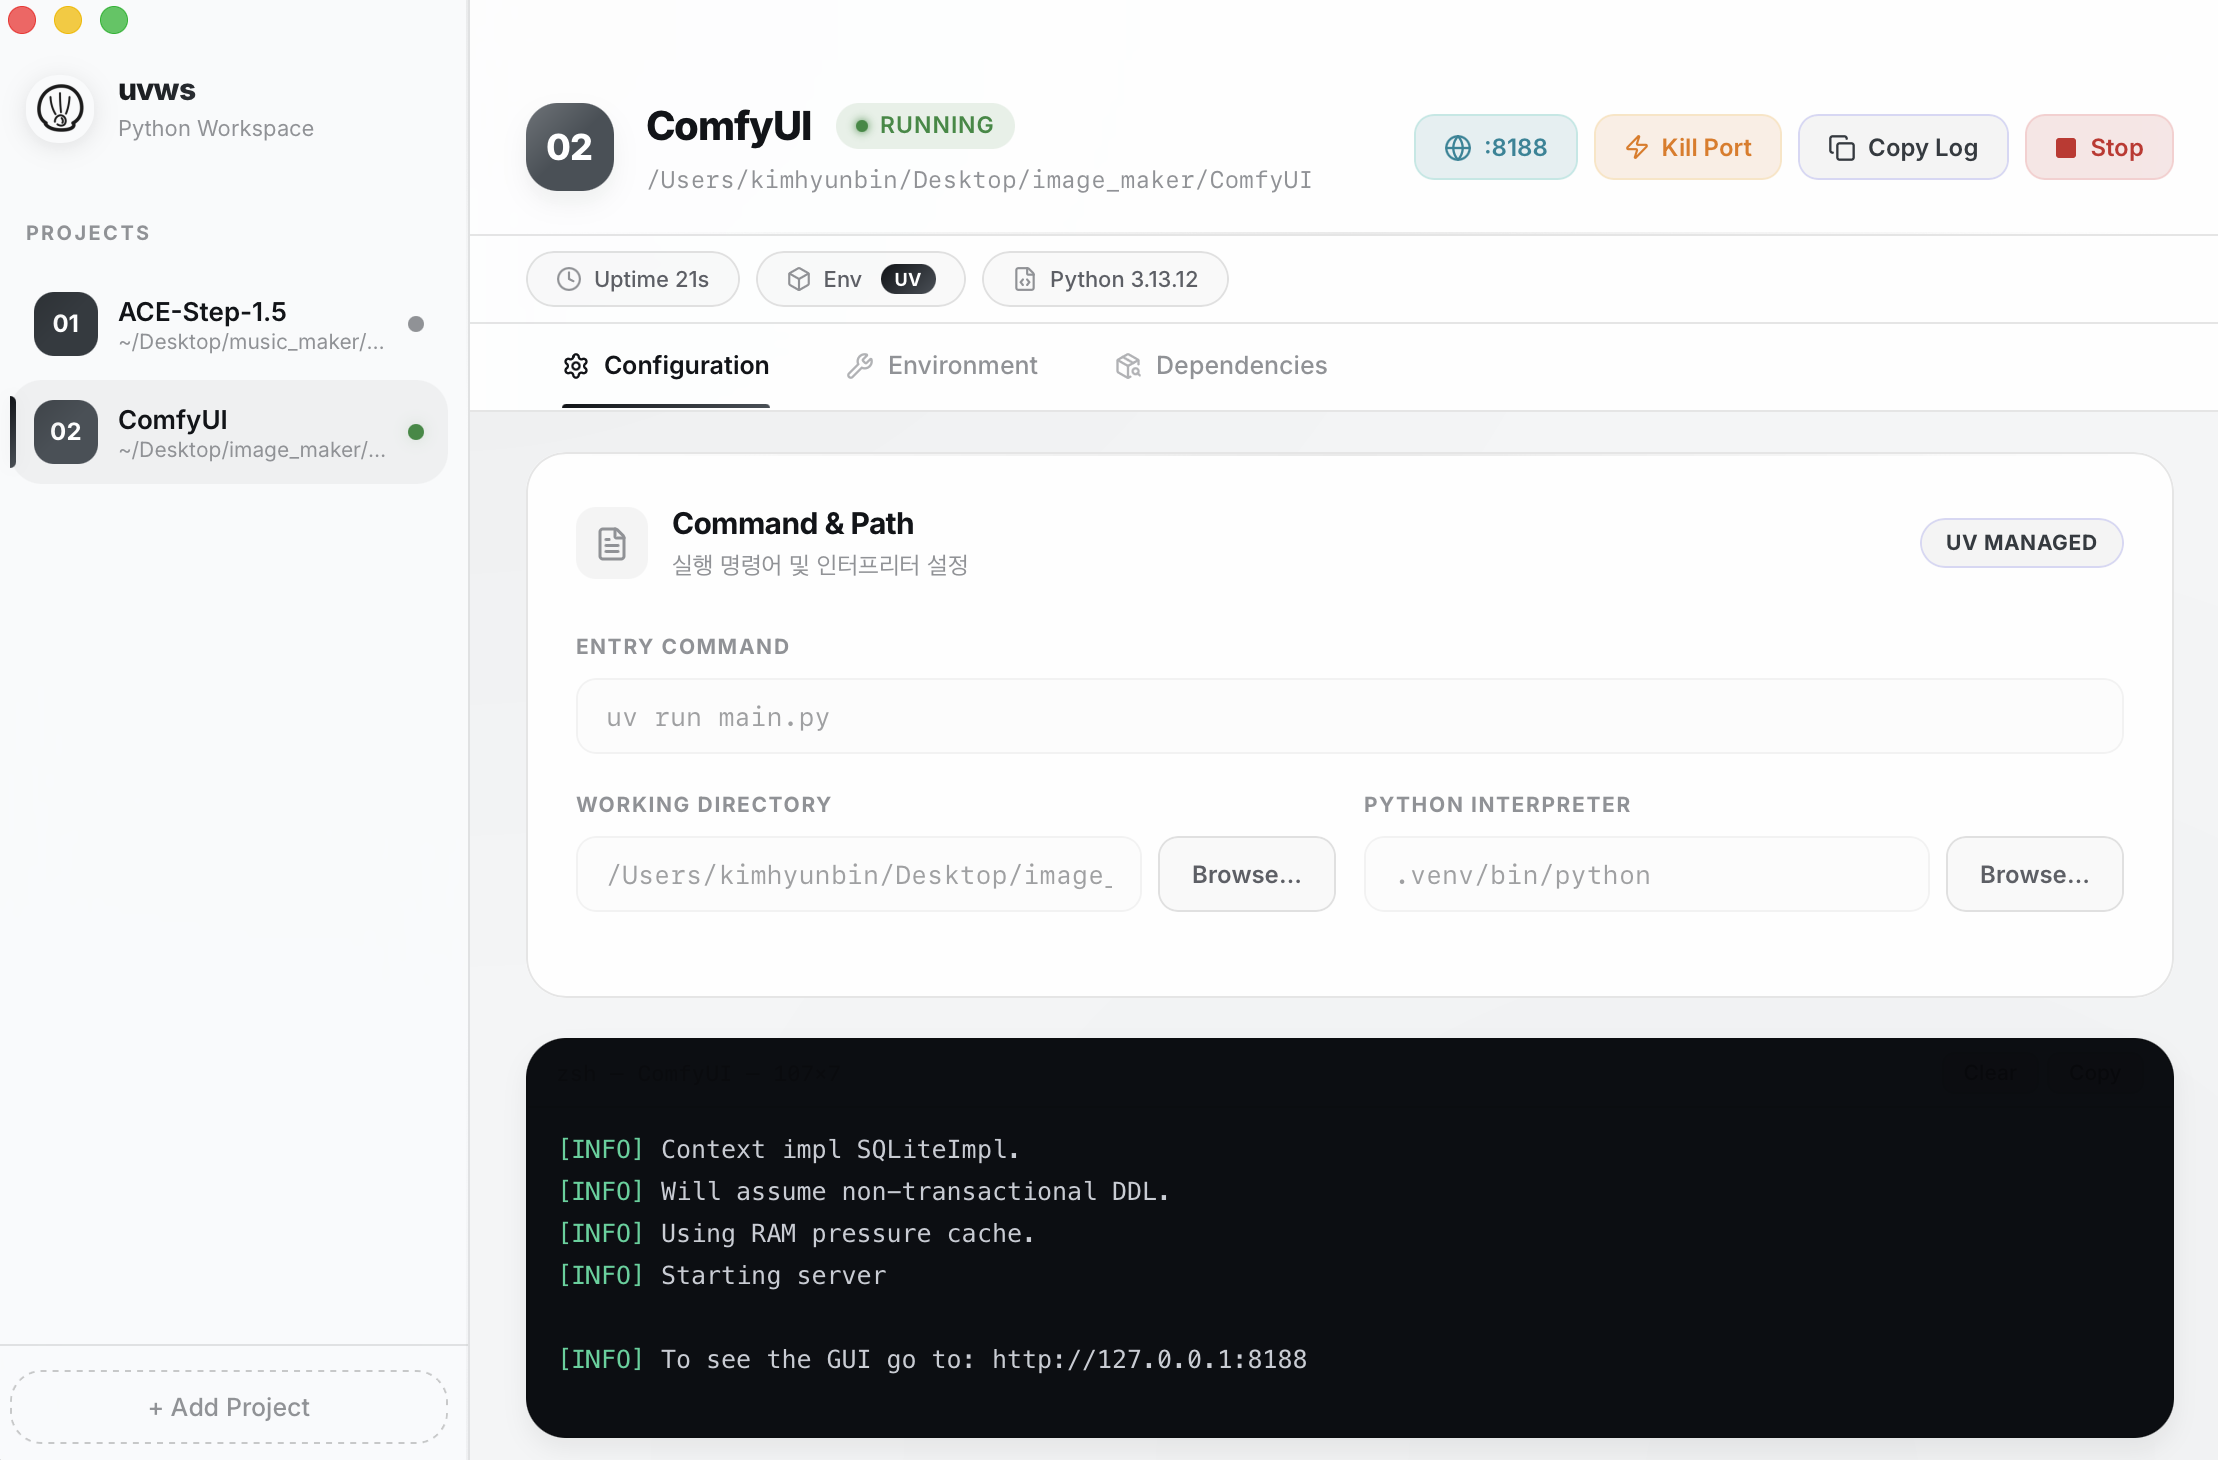
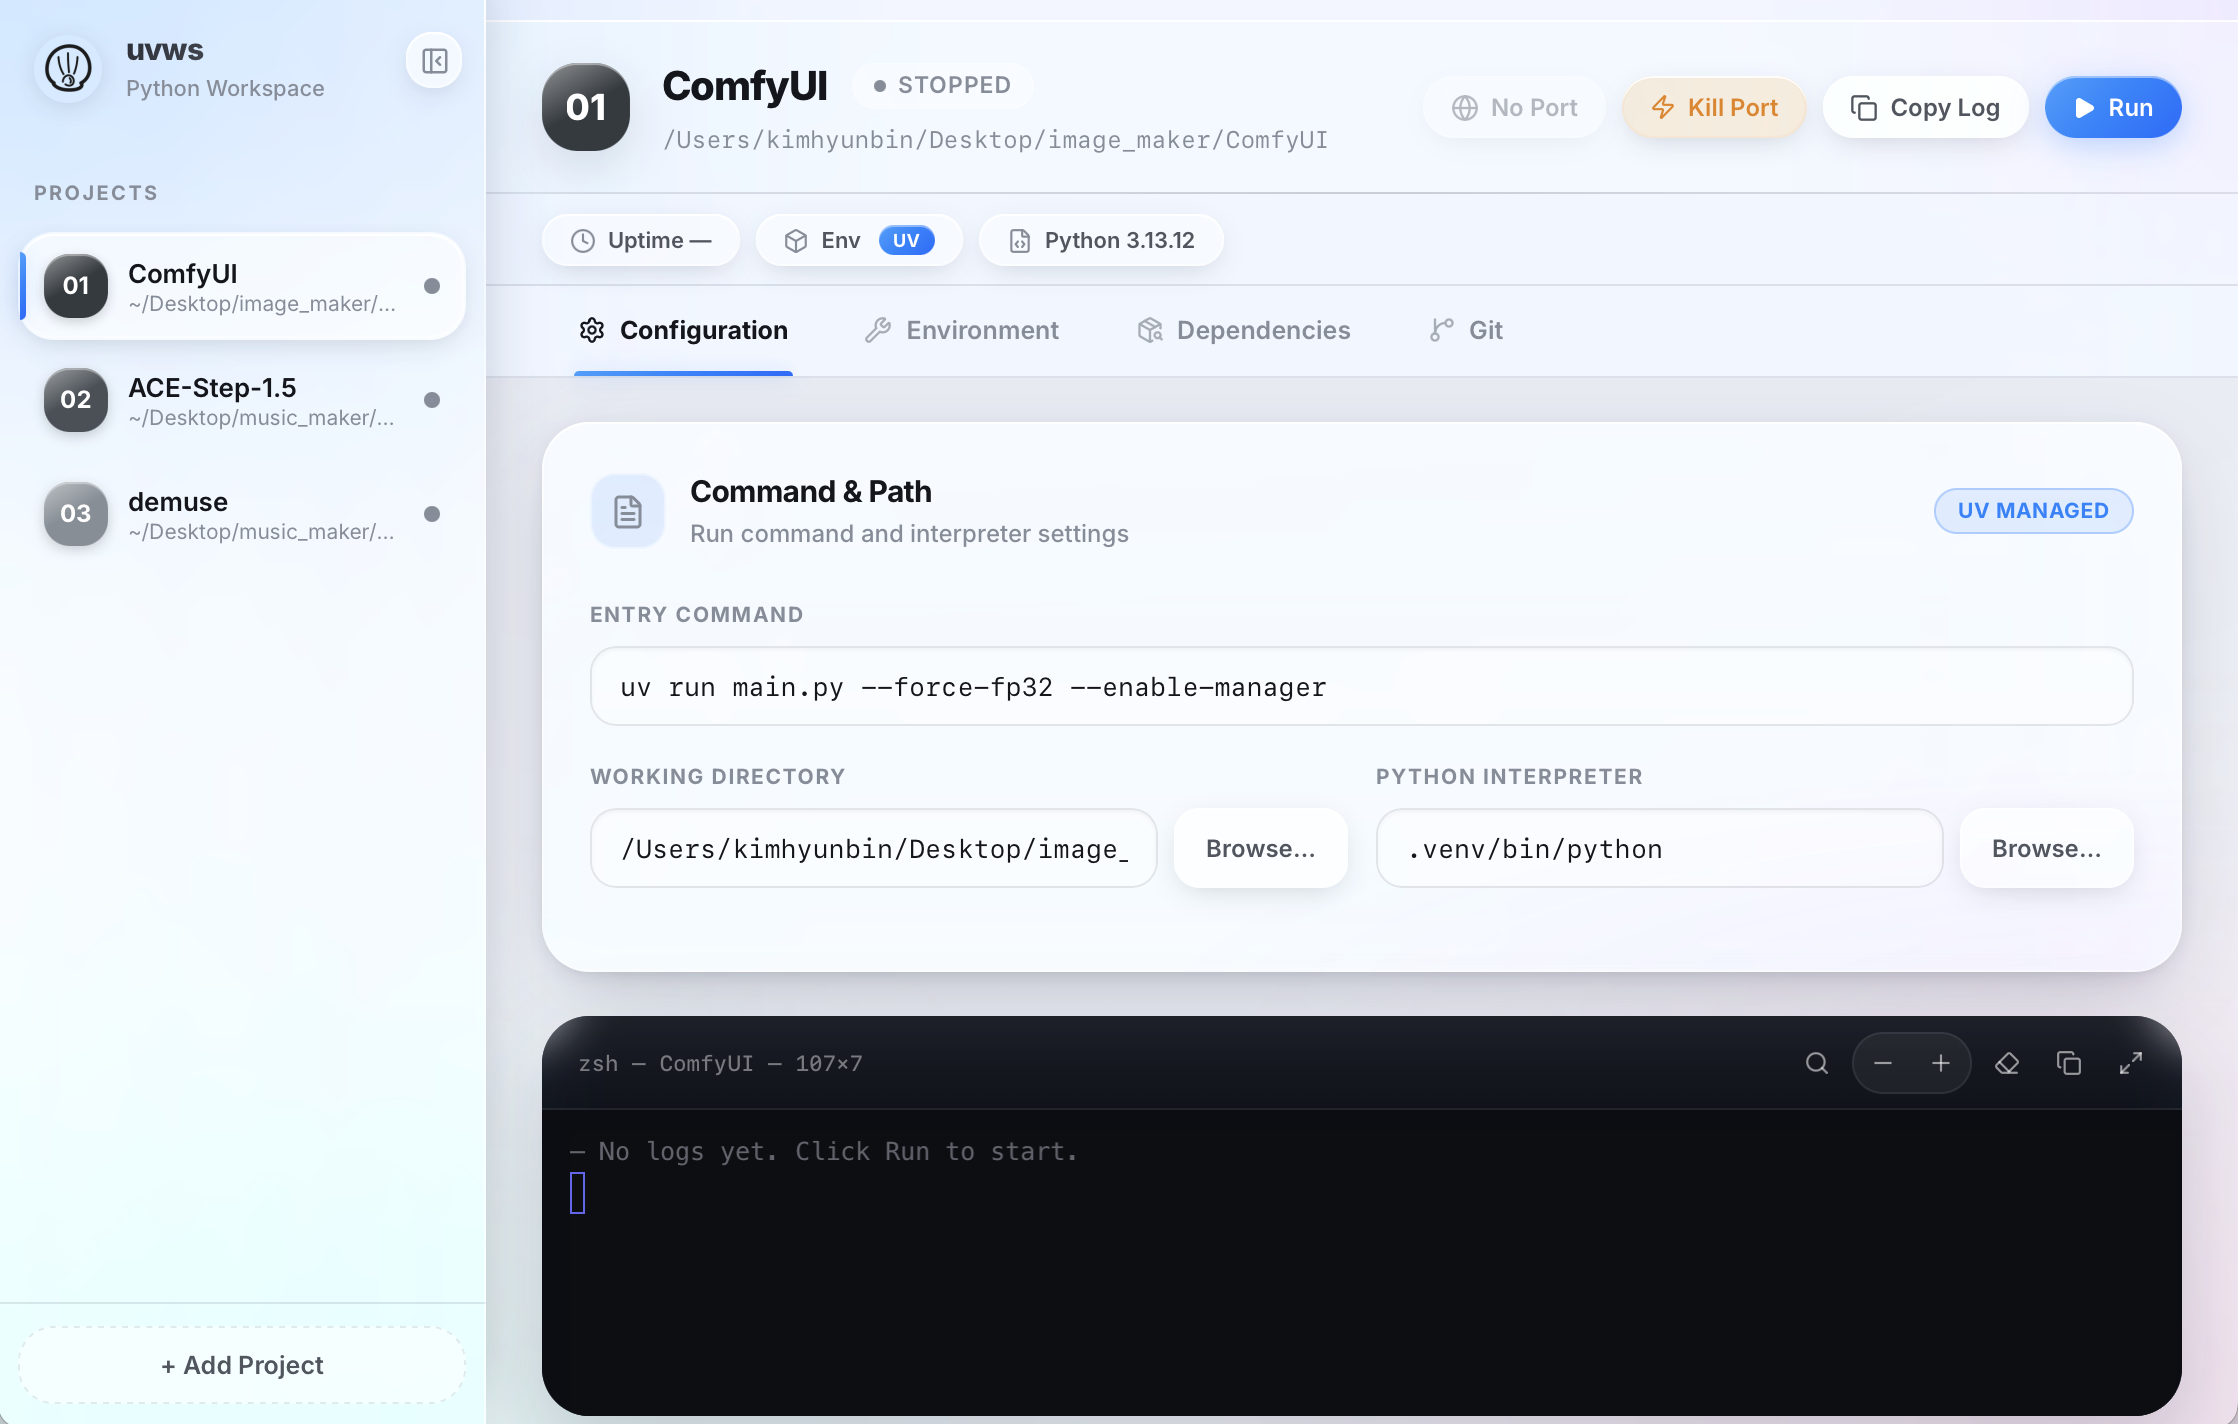
feat: add SEO optimization files and update landing page assets

diff --git a/landing/index.html b/landing/index.html
@@ -4,17 +4,29 @@
 <meta charset="UTF-8" />
 <meta name="viewport" content="width=device-width, initial-scale=1.0" />
 <meta name="color-scheme" content="light dark" />
-<title>uvws — uv 기반 파이썬 프로젝트를 클릭 한 번으로</title>
-<meta name="description" content="파이썬 프로젝트 여러 개를 데스크탑 앱에서 관리하고 클릭 한 번으로 실행하세요. uv 기반, 내장 터미널, 포트 강제 종료, Git 통합. macOS · Windows." />
+<title>uvws — 파이썬 프로젝트 관리 · uv 기반 원클릭 실행 데스크탑 앱</title>
+<meta name="description" content="cd·venv·python 반복 없이 파이썬 프로젝트를 클릭 한 번으로 실행하는 데스크탑 앱. uv 기반, 내장 터미널, 포트 강제 종료(kill port), 여러 프로젝트 동시 실행, Git 통합. ComfyUI·Flask·FastAPI·Streamlit 등 로컬 서버 실행에 딱. macOS · Windows · 무료 오픈소스." />
+<meta name="keywords" content="파이썬 프로젝트 관리, 파이썬 프로젝트 매니저, uv GUI, uv 런처, uv 사용법, astral uv, 파이썬 원클릭 실행, venv 자동화, 가상환경 관리, 포트 강제 종료, kill port, 포트 이미 사용중, 로컬 서버 관리, localhost 관리, ComfyUI 실행, Stable Diffusion 로컬 실행, 로컬 AI 앱 실행, Flask 실행, FastAPI 실행, Streamlit 실행, Django 실행, 파이썬 데스크탑 앱, 맥 파이썬 런처, 윈도우 파이썬 런처, 여러 파이썬 프로젝트 동시 실행, Tauri 앱, 파이썬 GUI 도구, python project manager, python launcher, uv gui launcher, run python one click, kill port mac, comfyui launcher, manage multiple python servers, venv manager" />
+<meta name="author" content="bunhine0452" />
+<meta name="robots" content="index, follow, max-image-preview:large" />
+<meta name="theme-color" content="#0a84ff" />
 <link rel="canonical" href="https://uvws.site/" />
-<meta property="og:title" content="uvws — uv 기반 파이썬 프로젝트를 클릭 한 번으로" />
-<meta property="og:description" content="cd 하고 venv 켜고 python 돌리던 거 끝. 폴더 등록해두면 클릭 한 번으로 실행됩니다." />
+<meta property="og:site_name" content="uvws" />
+<meta property="og:title" content="uvws — 파이썬 프로젝트를 클릭 한 번으로 실행하는 데스크탑 앱" />
+<meta property="og:description" content="cd 하고 venv 켜고 python 돌리던 거 끝. 폴더 등록해두면 클릭 한 번으로 실행됩니다. uv 기반 · 내장 터미널 · 포트 강제 종료 · 여러 프로젝트 동시 실행." />
 <meta property="og:url" content="https://uvws.site/" />
 <meta property="og:image" content="https://uvws.site/preview.png" />
+<meta property="og:image:alt" content="uvws 앱 스크린샷 — 파이썬 프로젝트 목록과 내장 터미널" />
 <meta property="og:type" content="website" />
+<meta property="og:locale" content="ko_KR" />
+<meta property="og:locale:alternate" content="en_US" />
 <meta name="twitter:card" content="summary_large_image" />
+<meta name="twitter:title" content="uvws — 파이썬 프로젝트를 클릭 한 번으로" />
+<meta name="twitter:description" content="uv 기반 파이썬 프로젝트 매니저. 내장 터미널 · 포트 강제 종료 · 여러 프로젝트 동시 실행. macOS · Windows 무료." />
 <meta name="twitter:image" content="https://uvws.site/preview.png" />
+<meta name="twitter:image:alt" content="uvws 앱 스크린샷" />
 <link rel="icon" href="icon.png" />
+<link rel="apple-touch-icon" href="icon.png" />
 <link rel="preconnect" href="https://fonts.googleapis.com" />
 <link rel="preconnect" href="https://fonts.gstatic.com" crossorigin />
 <link href="https://fonts.googleapis.com/css2?family=Inter:wght@400;500;600;700;800&display=swap" rel="stylesheet" />
@@ -281,10 +293,154 @@
   }
   .prereq .lbl { color: var(--muted); font-size: 12px; font-family: var(--mono); margin-top: 14px; display: block; }
 
+  /* use-cases */
+  .uses { display: flex; flex-wrap: wrap; gap: 10px; margin-top: 32px; }
+  .uses span {
+    font-family: var(--mono); font-size: 13px; color: var(--text-soft);
+    background: var(--glass-fill); -webkit-backdrop-filter: var(--blur); backdrop-filter: var(--blur);
+    padding: 8px 14px; border-radius: var(--r-full); box-shadow: var(--elev-sm);
+  }
+
+  /* faq */
+  .faq-list { margin-top: 40px; display: flex; flex-direction: column; gap: 12px; }
+  .faq-list details {
+    background: var(--glass-fill); -webkit-backdrop-filter: var(--blur); backdrop-filter: var(--blur);
+    border-radius: var(--r-md); box-shadow: var(--elev-sm); overflow: hidden;
+    transition: box-shadow .15s;
+  }
+  .faq-list details[open] { box-shadow: var(--elev); }
+  .faq-list summary {
+    cursor: pointer; list-style: none; padding: 19px 22px; font-weight: 700; font-size: 15.5px;
+    display: flex; align-items: center; justify-content: space-between; gap: 14px; letter-spacing: -0.01em;
+  }
+  .faq-list summary::-webkit-details-marker { display: none; }
+  .faq-list summary::after { content: "+"; font-family: var(--mono); font-size: 20px; color: var(--accent); transition: transform .2s; flex: none; }
+  .faq-list details[open] summary::after { transform: rotate(45deg); }
+  .faq-list .faq-a { padding: 0 22px 20px; color: var(--text-soft); font-size: 14.5px; }
+  .faq-list .faq-a code { font-family: var(--mono); font-size: 12.5px; color: var(--accent); background: var(--accent-soft); padding: 1px 6px; border-radius: 6px; }
+
   footer { box-shadow: inset 0 1px 0 var(--hairline); padding: 40px 0; color: var(--muted); font-size: 14px; margin-top: 40px; }
   footer .wrap { display: flex; justify-content: space-between; flex-wrap: wrap; gap: 14px; }
   footer a:hover { color: var(--text); }
 </style>
+
+<script type="application/ld+json">
+{
+  "@context": "https://schema.org",
+  "@graph": [
+    {
+      "@type": "WebSite",
+      "@id": "https://uvws.site/#website",
+      "url": "https://uvws.site/",
+      "name": "uvws",
+      "description": "파이썬 프로젝트를 클릭 한 번으로 실행하는 uv 기반 데스크탑 앱",
+      "inLanguage": ["ko-KR", "en-US"],
+      "publisher": { "@id": "https://uvws.site/#person" }
+    },
+    {
+      "@type": "Person",
+      "@id": "https://uvws.site/#person",
+      "name": "bunhine0452",
+      "url": "https://github.com/bunhine0452"
+    },
+    {
+      "@type": "SoftwareApplication",
+      "@id": "https://uvws.site/#app",
+      "name": "uvws",
+      "alternateName": ["uvws app", "uv workspace", "파이썬 프로젝트 매니저"],
+      "url": "https://uvws.site/",
+      "description": "cd·venv·python 반복 없이 파이썬 프로젝트를 클릭 한 번으로 실행하는 데스크탑 앱. uv 기반, 내장 터미널, 포트 강제 종료(kill port), 여러 프로젝트 동시 실행, Git 통합. ComfyUI·Flask·FastAPI·Streamlit 같은 로컬 서버 실행에 적합합니다.",
+      "applicationCategory": "DeveloperApplication",
+      "applicationSubCategory": "Python project manager / launcher",
+      "operatingSystem": "macOS, Windows",
+      "softwareVersion": "0.3.1",
+      "downloadUrl": "https://github.com/bunhine0452/uvws/releases/latest",
+      "softwareHelp": "https://github.com/bunhine0452/uvws",
+      "license": "https://github.com/bunhine0452/uvws/blob/main/LICENSE",
+      "isAccessibleForFree": true,
+      "screenshot": "https://uvws.site/preview.png",
+      "image": "https://uvws.site/icon.png",
+      "keywords": "파이썬 프로젝트 관리, uv GUI 런처, venv 자동화, 포트 강제 종료, kill port, ComfyUI 실행, 로컬 서버 관리, python project manager, uv launcher",
+      "featureList": [
+        "원클릭 파이썬 프로젝트 실행 (uv run 자동 래핑)",
+        "프로젝트별 내장 터미널 / 실시간 로그 스트리밍",
+        "포트 강제 종료 (kill port) — 포트가 실제로 비워질 때까지 확인",
+        "requirements.txt · pyproject.toml 임포트 위저드 (Python 3.10–3.13)",
+        "여러 프로젝트 동시 실행 및 종료 시 자동 정리",
+        "Git 통합 — 브랜치 / ahead·behind / Fetch·Pull·Push"
+      ],
+      "author": { "@id": "https://uvws.site/#person" },
+      "offers": {
+        "@type": "Offer",
+        "price": "0",
+        "priceCurrency": "USD"
+      }
+    },
+    {
+      "@type": "FAQPage",
+      "@id": "https://uvws.site/#faq",
+      "mainEntity": [
+        {
+          "@type": "Question",
+          "name": "uvws는 어떤 앱인가요?",
+          "acceptedAnswer": {
+            "@type": "Answer",
+            "text": "uvws는 로컬 파이썬 프로젝트 여러 개를 데스크탑 앱 하나에서 관리하고 클릭 한 번으로 실행하는 파이썬 프로젝트 매니저입니다. 내부적으로 Astral의 uv(uv run)로 감싸 실행하며, 내장 터미널, 포트 강제 종료, 여러 프로젝트 동시 실행, Git 통합을 제공합니다. macOS와 Windows를 지원하는 무료 오픈소스입니다."
+          }
+        },
+        {
+          "@type": "Question",
+          "name": "uv가 무엇인가요? 꼭 설치해야 하나요?",
+          "acceptedAnswer": {
+            "@type": "Answer",
+            "text": "uv는 Astral이 만든 매우 빠른 파이썬 패키지·가상환경 관리 도구입니다. uvws는 uv를 백엔드로 사용하므로 먼저 uv를 설치해야 합니다. macOS·Linux는 'curl -LsSf https://astral.sh/uv/install.sh | sh', Windows는 PowerShell에서 'irm https://astral.sh/uv/install.ps1 | iex' 로 설치합니다."
+          }
+        },
+        {
+          "@type": "Question",
+          "name": "ComfyUI, Stable Diffusion 같은 로컬 AI 앱도 실행할 수 있나요?",
+          "acceptedAnswer": {
+            "@type": "Answer",
+            "text": "네. ComfyUI, Stable Diffusion WebUI 등 파이썬으로 실행되는 로컬 AI 앱을 폴더로 등록해두면 클릭 한 번으로 띄울 수 있습니다. 로그에 localhost 주소가 뜨면 '브라우저 열기' 버튼이 자동으로 나타나고, 포트가 막혀 있으면 Kill Port 버튼으로 비울 수 있습니다."
+          }
+        },
+        {
+          "@type": "Question",
+          "name": "Flask · FastAPI · Django · Streamlit 같은 웹 프레임워크도 되나요?",
+          "acceptedAnswer": {
+            "@type": "Answer",
+            "text": "됩니다. Flask, FastAPI, Django, Streamlit, Gradio 등 로컬 개발 서버를 띄우는 모든 파이썬 프로젝트에 사용할 수 있습니다. 각 프로젝트는 독립된 터미널과 포트로 동시에 실행·관리됩니다."
+          }
+        },
+        {
+          "@type": "Question",
+          "name": "'포트가 이미 사용 중'일 때 어떻게 하나요?",
+          "acceptedAnswer": {
+            "@type": "Answer",
+            "text": "Kill Port(포트 강제 종료) 버튼을 누르면 해당 포트를 잡고 있는 프로세스를 SIGKILL로 종료하고 포트가 실제로 비워질 때까지 확인합니다. lsof나 kill -9 명령을 직접 칠 필요가 없습니다."
+          }
+        },
+        {
+          "@type": "Question",
+          "name": "venv(가상환경)를 직접 만들어야 하나요?",
+          "acceptedAnswer": {
+            "@type": "Answer",
+            "text": "아니요. uvws가 uv run으로 감싸 실행하므로 venv 활성화 없이 동작하고, 가상환경이 없으면 첫 실행 때 자동으로 만들어 줍니다. requirements.txt나 pyproject.toml이 있으면 임포트 위저드에서 Python 버전(3.10–3.13)을 고르고 의존성까지 한 번에 설치합니다."
+          }
+        },
+        {
+          "@type": "Question",
+          "name": "무료인가요? 어떤 OS를 지원하나요?",
+          "acceptedAnswer": {
+            "@type": "Answer",
+            "text": "무료 오픈소스(MIT)입니다. macOS(Apple Silicon·Intel)와 Windows 10 이상을 지원하며, uvws.site에서 OS에 맞는 설치 파일을 바로 내려받을 수 있습니다."
+          }
+        }
+      ]
+    }
+  ]
+}
+</script>
 </head>
 <body>
 
@@ -293,6 +449,7 @@
     <a class="brand" href="#top"><img src="icon.png" alt="uvws" /> uvws</a>
     <div class="nav-links">
       <a class="hide-sm" href="#features" data-i18n="nav_features">기능</a>
+      <a class="hide-sm" href="#faq" data-i18n="nav_faq">FAQ</a>
       <a class="hide-sm" href="https://github.com/bunhine0452/uvws" target="_blank" rel="noopener">GitHub</a>
       <span class="lang-toggle">
         <button id="lang-ko" onclick="setLang('ko')">한국어</button>
@@ -418,6 +575,61 @@
   </div>
 </section>
 
+<section id="usecases" class="wrap">
+  <span class="eyebrow">USE CASES</span>
+  <h2 data-i18n="uc_title">이런 작업에 잘 맞아요</h2>
+  <p class="section-sub" data-i18n="uc_sub">로컬에서 파이썬 서버를 자주 띄우는 분이라면 거의 다 해당됩니다.</p>
+  <div class="uses">
+    <span data-i18n="uc_1">ComfyUI 실행</span>
+    <span data-i18n="uc_2">Stable Diffusion WebUI</span>
+    <span data-i18n="uc_3">Flask · FastAPI 개발 서버</span>
+    <span data-i18n="uc_4">Streamlit · Gradio 데모</span>
+    <span data-i18n="uc_5">Django 로컬 실행</span>
+    <span data-i18n="uc_6">Jupyter · 데이터 분석 스크립트</span>
+    <span data-i18n="uc_7">디스코드 봇 · 크롤러</span>
+    <span data-i18n="uc_8">여러 파이썬 프로젝트 동시 실행</span>
+    <span data-i18n="uc_9">포트 강제 종료 (kill port)</span>
+    <span data-i18n="uc_10">uv 가상환경 자동 관리</span>
+  </div>
+</section>
+
+<section id="faq" class="wrap">
+  <span class="eyebrow">FAQ</span>
+  <h2 data-i18n="faq_title">자주 묻는 질문</h2>
+  <p class="section-sub" data-i18n="faq_sub">uvws가 무엇이고 어떤 파이썬 작업에 쓰는지 빠르게 정리했습니다.</p>
+
+  <div class="faq-list">
+    <details open>
+      <summary data-i18n="faq_q1">uvws는 어떤 앱인가요?</summary>
+      <div class="faq-a" data-i18n="faq_a1">로컬 파이썬 프로젝트 여러 개를 데스크탑 앱 하나에서 관리하고 클릭 한 번으로 실행하는 <strong>파이썬 프로젝트 매니저</strong>입니다. 내부적으로 Astral의 <code>uv run</code>으로 감싸 실행하며, 내장 터미널·포트 강제 종료·여러 프로젝트 동시 실행·Git 통합을 제공합니다. macOS와 Windows를 지원하는 무료 오픈소스예요.</div>
+    </details>
+    <details>
+      <summary data-i18n="faq_q2">uv가 무엇인가요? 꼭 설치해야 하나요?</summary>
+      <div class="faq-a" data-i18n="faq_a2">uv는 Astral이 만든 아주 빠른 파이썬 패키지·가상환경 관리 도구입니다. uvws는 uv를 백엔드로 쓰기 때문에 먼저 uv를 설치해야 합니다. macOS·Linux는 <code>curl -LsSf https://astral.sh/uv/install.sh | sh</code>, Windows는 PowerShell에서 <code>irm https://astral.sh/uv/install.ps1 | iex</code> 로 설치하세요.</div>
+    </details>
+    <details>
+      <summary data-i18n="faq_q3">ComfyUI, Stable Diffusion 같은 로컬 AI 앱도 실행되나요?</summary>
+      <div class="faq-a" data-i18n="faq_a3">네. ComfyUI, Stable Diffusion WebUI 등 파이썬으로 도는 로컬 AI 앱을 폴더로 등록해두면 클릭 한 번으로 띄울 수 있습니다. 로그에 <code>localhost</code> 주소가 뜨면 '브라우저 열기' 버튼이 자동으로 나타나고, 포트가 막혀 있으면 Kill Port 버튼으로 비웁니다.</div>
+    </details>
+    <details>
+      <summary data-i18n="faq_q4">Flask · FastAPI · Django · Streamlit도 되나요?</summary>
+      <div class="faq-a" data-i18n="faq_a4">됩니다. Flask, FastAPI, Django, Streamlit, Gradio 등 로컬 개발 서버를 띄우는 모든 파이썬 프로젝트에 쓸 수 있어요. 각 프로젝트는 독립된 터미널·포트로 동시에 실행·관리됩니다.</div>
+    </details>
+    <details>
+      <summary data-i18n="faq_q5">'포트가 이미 사용 중'일 때 어떻게 하나요?</summary>
+      <div class="faq-a" data-i18n="faq_a5">Kill Port(포트 강제 종료) 버튼을 누르면 그 포트를 잡고 있는 프로세스를 SIGKILL로 종료하고, 포트가 실제로 비워질 때까지 확인합니다. <code>lsof</code>나 <code>kill -9</code>를 직접 칠 필요가 없어요.</div>
+    </details>
+    <details>
+      <summary data-i18n="faq_q6">venv(가상환경)를 직접 만들어야 하나요?</summary>
+      <div class="faq-a" data-i18n="faq_a6">아니요. uvws가 <code>uv run</code>으로 감싸 실행하므로 venv 활성화 없이 동작하고, 가상환경이 없으면 첫 실행 때 자동으로 만들어 줍니다. requirements.txt나 pyproject.toml이 있으면 임포트 위저드에서 Python 버전(3.10–3.13)을 고르고 의존성까지 한 번에 설치합니다.</div>
+    </details>
+    <details>
+      <summary data-i18n="faq_q7">무료인가요? 어떤 OS를 지원하나요?</summary>
+      <div class="faq-a" data-i18n="faq_a7">무료 오픈소스(MIT)입니다. macOS(Apple Silicon·Intel)와 Windows 10 이상을 지원하고, 위 다운로드 버튼에서 OS에 맞는 설치 파일을 바로 받을 수 있어요.</div>
+    </details>
+  </div>
+</section>
+
 <footer>
   <div class="wrap">
     <span data-i18n="footer_left">uvws · MIT License · 개인 사이드 프로젝트입니다</span>
@@ -432,7 +644,7 @@
   // ── Minimal i18n: swap [data-i18n] innerHTML on language change ──
   const I18N = {
     ko: {
-      nav_features: "기능", nav_download: "다운로드",
+      nav_features: "기능", nav_faq: "FAQ", nav_download: "다운로드",
       hero_pill: "uv 기반 · Tauri 2 · 오픈소스",
       hero_title: '파이썬 프로젝트를<br /><span class="accent">클릭 한 번으로</span> 실행',
       hero_sub: "cd 하고 venv 켜고 python 돌리던 거, 이제 폴더 한 번 등록해두면 끝. 여러 프로젝트를 데스크탑 앱 하나에서 관리하고 실행하세요.",
@@ -456,11 +668,33 @@
       dl_notes: "업데이트 내용 보기", dl_go: "바로 다운로드 →",
       prereq_title: "⚠️ 먼저 uv가 설치돼 있어야 합니다",
       prereq_gatekeeper: "macOS 첫 실행 시 보안 경고가 뜨면 (공증 전이라)",
+      uc_title: "이런 작업에 잘 맞아요",
+      uc_sub: "로컬에서 파이썬 서버를 자주 띄우는 분이라면 거의 다 해당됩니다.",
+      uc_1: "ComfyUI 실행", uc_2: "Stable Diffusion WebUI", uc_3: "Flask · FastAPI 개발 서버",
+      uc_4: "Streamlit · Gradio 데모", uc_5: "Django 로컬 실행", uc_6: "Jupyter · 데이터 분석 스크립트",
+      uc_7: "디스코드 봇 · 크롤러", uc_8: "여러 파이썬 프로젝트 동시 실행", uc_9: "포트 강제 종료 (kill port)",
+      uc_10: "uv 가상환경 자동 관리",
+      faq_title: "자주 묻는 질문",
+      faq_sub: "uvws가 무엇이고 어떤 파이썬 작업에 쓰는지 빠르게 정리했습니다.",
+      faq_q1: "uvws는 어떤 앱인가요?",
+      faq_a1: '로컬 파이썬 프로젝트 여러 개를 데스크탑 앱 하나에서 관리하고 클릭 한 번으로 실행하는 <strong>파이썬 프로젝트 매니저</strong>입니다. 내부적으로 Astral의 <code>uv run</code>으로 감싸 실행하며, 내장 터미널·포트 강제 종료·여러 프로젝트 동시 실행·Git 통합을 제공합니다. macOS와 Windows를 지원하는 무료 오픈소스예요.',
+      faq_q2: "uv가 무엇인가요? 꼭 설치해야 하나요?",
+      faq_a2: 'uv는 Astral이 만든 아주 빠른 파이썬 패키지·가상환경 관리 도구입니다. uvws는 uv를 백엔드로 쓰기 때문에 먼저 uv를 설치해야 합니다. macOS·Linux는 <code>curl -LsSf https://astral.sh/uv/install.sh | sh</code>, Windows는 PowerShell에서 <code>irm https://astral.sh/uv/install.ps1 | iex</code> 로 설치하세요.',
+      faq_q3: "ComfyUI, Stable Diffusion 같은 로컬 AI 앱도 실행되나요?",
+      faq_a3: '네. ComfyUI, Stable Diffusion WebUI 등 파이썬으로 도는 로컬 AI 앱을 폴더로 등록해두면 클릭 한 번으로 띄울 수 있습니다. 로그에 <code>localhost</code> 주소가 뜨면 \'브라우저 열기\' 버튼이 자동으로 나타나고, 포트가 막혀 있으면 Kill Port 버튼으로 비웁니다.',
+      faq_q4: "Flask · FastAPI · Django · Streamlit도 되나요?",
+      faq_a4: "됩니다. Flask, FastAPI, Django, Streamlit, Gradio 등 로컬 개발 서버를 띄우는 모든 파이썬 프로젝트에 쓸 수 있어요. 각 프로젝트는 독립된 터미널·포트로 동시에 실행·관리됩니다.",
+      faq_q5: "'포트가 이미 사용 중'일 때 어떻게 하나요?",
+      faq_a5: 'Kill Port(포트 강제 종료) 버튼을 누르면 그 포트를 잡고 있는 프로세스를 SIGKILL로 종료하고, 포트가 실제로 비워질 때까지 확인합니다. <code>lsof</code>나 <code>kill -9</code>를 직접 칠 필요가 없어요.',
+      faq_q6: "venv(가상환경)를 직접 만들어야 하나요?",
+      faq_a6: "아니요. uvws가 <code>uv run</code>으로 감싸 실행하므로 venv 활성화 없이 동작하고, 가상환경이 없으면 첫 실행 때 자동으로 만들어 줍니다. requirements.txt나 pyproject.toml이 있으면 임포트 위저드에서 Python 버전(3.10–3.13)을 고르고 의존성까지 한 번에 설치합니다.",
+      faq_q7: "무료인가요? 어떤 OS를 지원하나요?",
+      faq_a7: "무료 오픈소스(MIT)입니다. macOS(Apple Silicon·Intel)와 Windows 10 이상을 지원하고, 위 다운로드 버튼에서 OS에 맞는 설치 파일을 바로 받을 수 있어요.",
       footer_left: "uvws · MIT License · 개인 사이드 프로젝트입니다",
       footer_issues: "이슈 / 피드백",
     },
     en: {
-      nav_features: "Features", nav_download: "Download",
+      nav_features: "Features", nav_faq: "FAQ", nav_download: "Download",
       hero_pill: "Powered by uv · Tauri 2 · Open source",
       hero_title: 'Run Python projects<br />with <span class="accent">one click</span>',
       hero_sub: "No more cd, activate venv, run python. Register a folder once and you're done — manage and launch all your projects from a single desktop app.",
@@ -484,6 +718,28 @@
       dl_notes: "What's new", dl_go: "Download →",
       prereq_title: "⚠️ You need uv installed first",
       prereq_gatekeeper: "If macOS shows a security warning on first launch (not yet notarized)",
+      uc_title: "Great for these jobs",
+      uc_sub: "If you spin up local Python servers a lot, almost all of these apply.",
+      uc_1: "Run ComfyUI", uc_2: "Stable Diffusion WebUI", uc_3: "Flask · FastAPI dev servers",
+      uc_4: "Streamlit · Gradio demos", uc_5: "Django locally", uc_6: "Jupyter · data scripts",
+      uc_7: "Discord bots · crawlers", uc_8: "Run many Python projects at once", uc_9: "Kill port (force-free)",
+      uc_10: "Auto-managed uv virtualenvs",
+      faq_title: "Frequently asked questions",
+      faq_sub: "A quick rundown of what uvws is and what Python tasks it's for.",
+      faq_q1: "What is uvws?",
+      faq_a1: 'A <strong>Python project manager</strong> that lets you manage many local Python projects in one desktop app and run them with a single click. It wraps execution in Astral\'s <code>uv run</code> and adds a built-in terminal, force-kill ports, concurrent runs, and Git integration. Free and open source, for macOS and Windows.',
+      faq_q2: "What is uv? Do I have to install it?",
+      faq_a2: 'uv is Astral\'s very fast Python package and virtualenv manager. uvws uses uv as its backend, so install it first: on macOS/Linux run <code>curl -LsSf https://astral.sh/uv/install.sh | sh</code>, on Windows run <code>irm https://astral.sh/uv/install.ps1 | iex</code> in PowerShell.',
+      faq_q3: "Can it launch local AI apps like ComfyUI or Stable Diffusion?",
+      faq_a3: 'Yes. Register the folder of any Python-based local AI app — ComfyUI, Stable Diffusion WebUI, etc. — and launch it in one click. When a <code>localhost</code> address shows in the logs an "Open in browser" button appears, and a blocked port can be freed with Kill Port.',
+      faq_q4: "Does it work with Flask · FastAPI · Django · Streamlit?",
+      faq_a4: "Yes. It works with any Python project that runs a local dev server — Flask, FastAPI, Django, Streamlit, Gradio, and more. Each project runs concurrently with its own terminal and port.",
+      faq_q5: 'What about "port already in use"?',
+      faq_a5: 'Hit the Kill Port button: it SIGKILLs the process holding the port and confirms the port is actually freed — no more typing <code>lsof</code> or <code>kill -9</code> yourself.',
+      faq_q6: "Do I have to create a venv myself?",
+      faq_a6: "No. uvws wraps runs in <code>uv run</code>, so it works without activating a venv and creates one on first run if missing. With a requirements.txt or pyproject.toml, the import wizard lets you pick a Python version (3.10–3.13) and install dependencies in one go.",
+      faq_q7: "Is it free? Which OSes are supported?",
+      faq_a7: "It's free and open source (MIT). It supports macOS (Apple Silicon · Intel) and Windows 10+, and you can grab the installer for your OS from the download buttons above.",
       footer_left: "uvws · MIT License · a personal side project",
       footer_issues: "Issues / Feedback",
     },